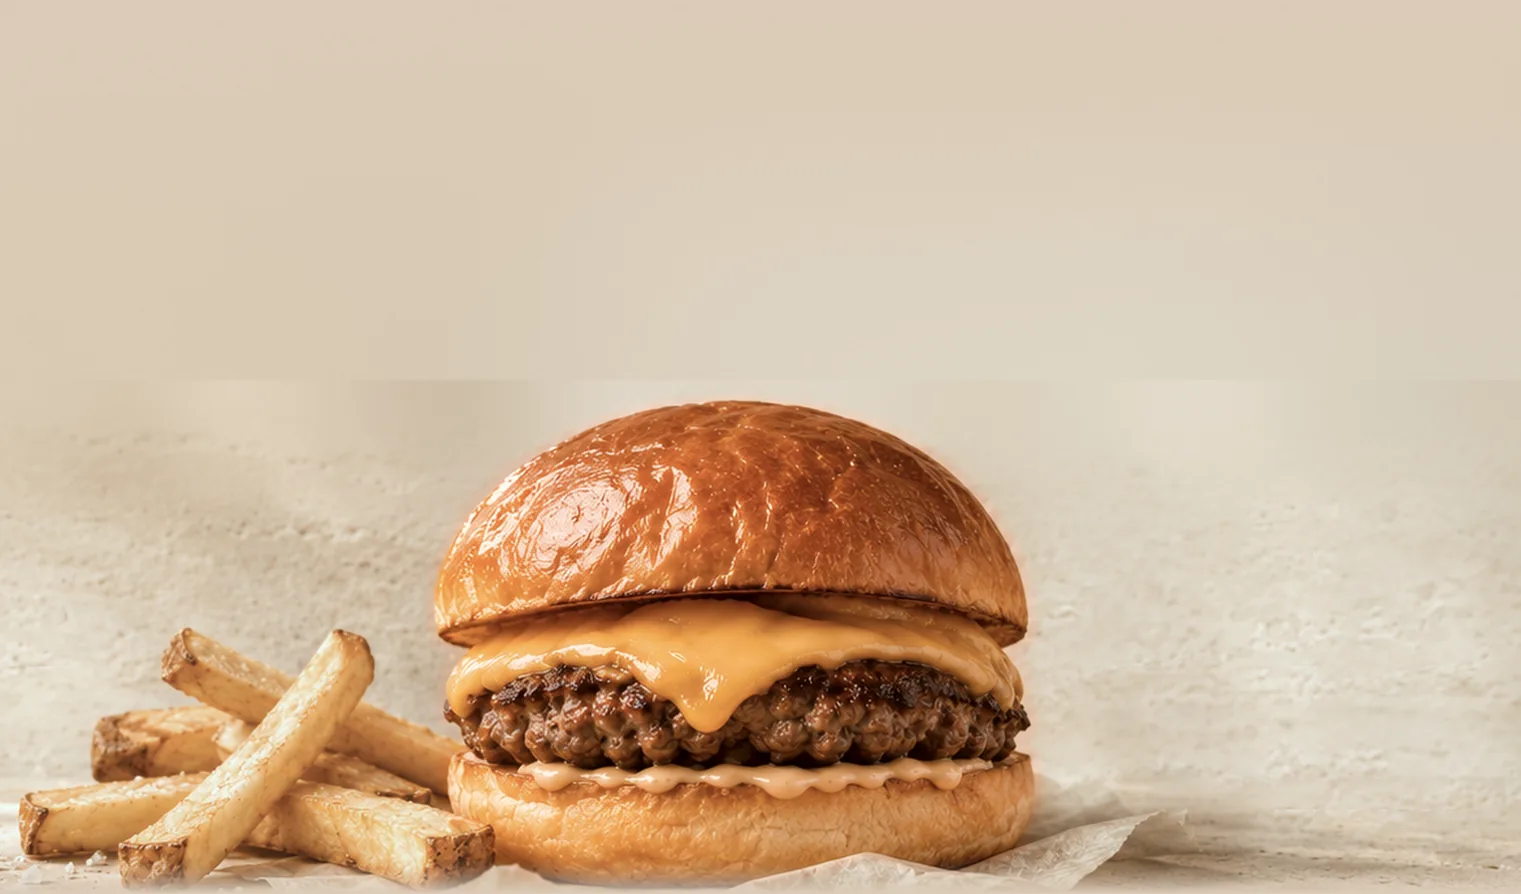
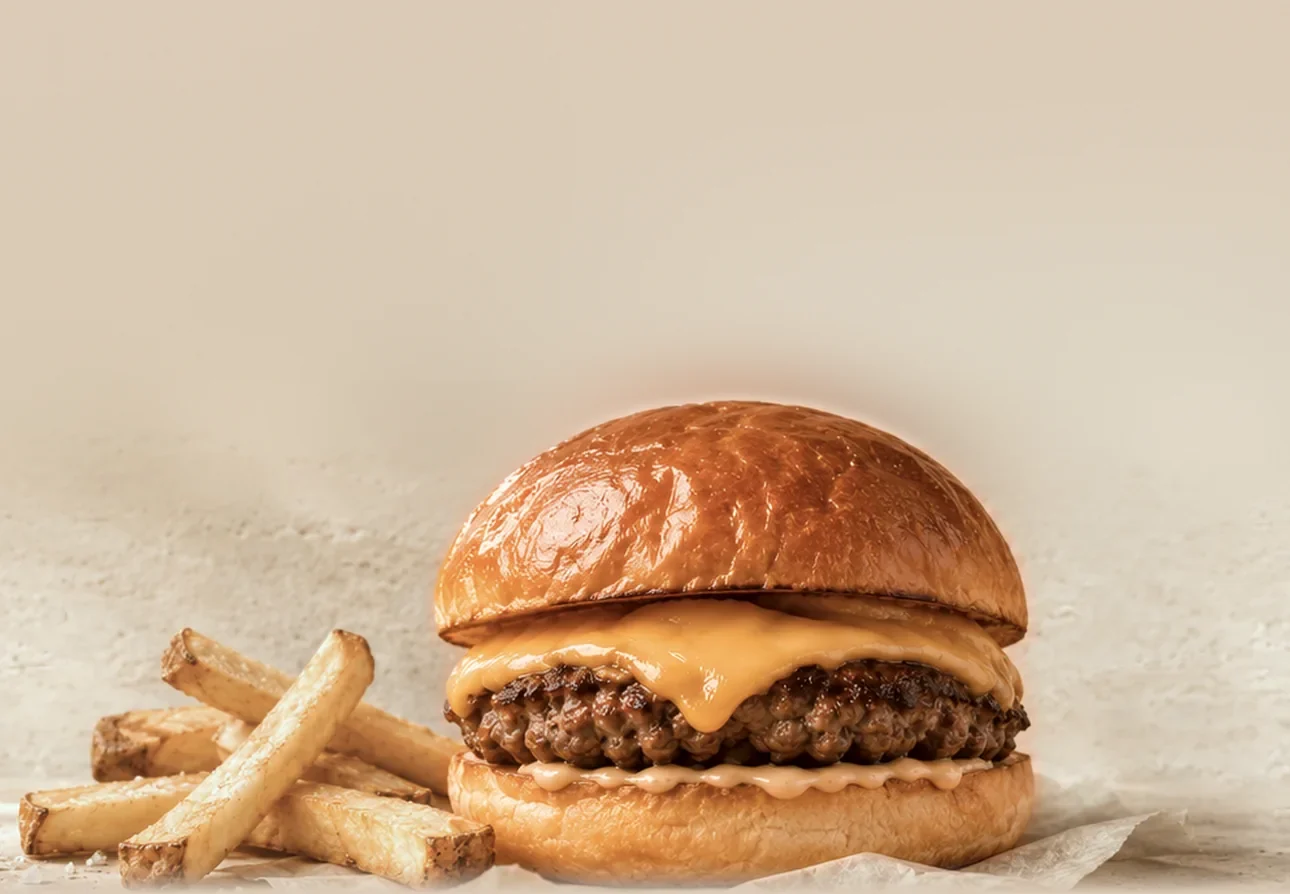
Mission text above photo on mobile, no fades; bigger mobile slider, divider positions

diff --git a/src/components/MissionSection.tsx b/src/components/MissionSection.tsx
@@ -35,7 +35,7 @@ export default function MissionSection() {
       <div className="mx-auto w-full max-w-[1560px] px-[var(--gutter)] lg:pr-[max(var(--gutter),5vw)]">
         <div className="relative flex flex-col gap-8 lg:min-h-[clamp(500px,40vw,700px)] lg:justify-center lg:py-6">
           <div
-            className="relative mx-auto -mt-4 w-[200%] max-w-none -translate-x-[8%] lg:absolute lg:left-1/2 lg:top-1/2 lg:mx-0 lg:w-[min(1600px,115vw)] lg:-translate-x-[90%] lg:-translate-y-1/2"
+            className="relative order-2 mx-auto -mt-[26vw] -mb-[6vw] w-[200%] lg:order-none lg:mb-0 lg:mt-0 max-w-none -translate-x-[8%] lg:absolute lg:left-1/2 lg:top-1/2 lg:mx-0 lg:w-[min(1600px,115vw)] lg:-translate-x-[90%] lg:-translate-y-1/2"
           >
             <span className="pointer-events-none absolute bottom-[4%] left-[18%] h-[16%] w-[70%] rounded-[50%] bg-[radial-gradient(closest-side,rgba(90,64,42,0.22),transparent)] blur-md" aria-hidden="true" />
             <Image
@@ -47,11 +47,11 @@ export default function MissionSection() {
               className="relative h-auto w-full opacity-[0.93] [filter:saturate(0.85)_brightness(1.04)] [mask-image:radial-gradient(75%_80%_at_58%_46%,#000_62%,transparent_100%)]"
             />
           </div>
-          <div className="relative z-10 -mt-14 lg:ml-auto lg:mt-0 lg:w-[min(46%,640px)] lg:text-right">
-            <p className="eyebrow mb-3 text-rust" data-reveal>
+          <div className="relative z-10 order-1 pt-8 lg:order-none lg:ml-auto lg:mt-0 lg:pt-0 lg:w-[min(46%,640px)] lg:text-right">
+            <p className="eyebrow mb-3 text-rust max-lg:!translate-y-0 max-lg:![transform:none] max-lg:!opacity-100" data-reveal>
               {mission.eyebrow}
             </p>
-            <h2 id="mission-title" className="display text-[clamp(2.3rem,3.3vw,3.5rem)] leading-[1.04] text-ink" data-reveal style={{ "--d": "90ms" } as React.CSSProperties}>
+            <h2 id="mission-title" className="display text-[clamp(2.3rem,3.3vw,3.5rem)] leading-[1.04] text-ink max-lg:!translate-y-0 max-lg:![transform:none] max-lg:!opacity-100" data-reveal style={{ "--d": "90ms" } as React.CSSProperties}>
               {mission.headline}
             </h2>
             <div className="mt-[clamp(1.25rem,2.4vw,1.75rem)]" />
@@ -93,7 +93,7 @@ export default function MissionSection() {
               })}
             </ul>
             <div
-              className="mt-[clamp(1rem,2.2vw,1.75rem)] border-t border-rust/40 pt-[clamp(0.75rem,1.5vw,1.25rem)]"
+              className="mt-[clamp(1rem,2.2vw,1.75rem)] border-t border-rust/40 pt-[clamp(0.75rem,1.5vw,1.25rem)] max-lg:!translate-y-0 max-lg:![transform:none] max-lg:!opacity-100"
               style={{
                 opacity: on ? 1 : 0,
                 transform: on ? "none" : "translateY(16px)",

diff --git a/src/components/SignatureBurger.tsx b/src/components/SignatureBurger.tsx
@@ -36,8 +36,8 @@ export default function SignatureBurger() {
         <ComparisonSlider
           className="[mask-image:linear-gradient(to_bottom,transparent,#000_2%,#000_97%,transparent)]"
           sizes="90vw"
-          inset={0.15}
-          rest={61}
+          inset={0.1}
+          rest={57}
           photo={{ src: "/images/slider-photo.webp", alt: signature.photoAlt, width: 1708, height: 713 }}
           sketch={{ src: "/images/slider-sketch.webp", alt: signature.sketchAlt, width: 1708, height: 713 }}
           notes={burgerNotes}
@@ -51,14 +51,14 @@ export default function SignatureBurger() {
       <div className="bg-[#dbcbb8] md:hidden">
         <div className="relative z-10 px-[var(--gutter)] pt-10">{intro}</div>
         <ComparisonSlider
-          className="mt-[calc(-1rem-9vw)]"
+          className="mt-[calc(-1rem-14vw)]"
           sizes="(min-width: 768px) 1px, 100vw"
-          photo={{ src: "/images/slider-photo-mobile.webp", alt: signature.photoAlt, width: 1521, height: 894 }}
-          sketch={{ src: "/images/slider-sketch-mobile.webp", alt: signature.sketchAlt, width: 1521, height: 894 }}
+          photo={{ src: "/images/slider-photo-mobile.webp", alt: signature.photoAlt, width: 1290, height: 894 }}
+          sketch={{ src: "/images/slider-sketch-mobile.webp", alt: signature.sketchAlt, width: 1290, height: 894 }}
           notes={burgerNotesMobile}
-          noteSize={52}
+          noteSize={48}
           textZone={380 / 894}
-          rest={48}
+          rest={60}
           labels={["", ""]}
         />
       </div>

diff --git a/src/content/site.ts b/src/content/site.ts
@@ -67,13 +67,13 @@ export const burgerNotes = [
   { text: ["Crispy hand-cut", "fries in tallow"], at: [370, 190], from: [510, 240], to: [540, 430], bend: -18 },
 ];
 
-/** Mobile callouts, in the 1521 x 894 space of /images/slider-*-mobile.webp (copy sits in the top 380). */
+/** Mobile callouts, in the 1290 x 894 space of /images/slider-*-mobile.webp (copy sits in the top 380). */
 export const burgerNotesMobile = [
-  { text: ["Toasted bun"], at: [1090, 340], from: [1080, 330], to: [965, 420], bend: -28 },
-  { text: ["Grass-finished", "beef"], at: [1110, 470], from: [1100, 510], to: [1020, 640], bend: -20 },
-  { text: ["Seared in", "beef tallow"], at: [1110, 630], from: [1100, 655], to: [1036, 712], bend: -10 },
-  { text: ["Simple, real", "ingredients"], at: [1110, 780], from: [1100, 790], to: [1040, 790], bend: 6 },
-  { text: ["Crispy hand-cut", "fries in tallow"], at: [40, 440], from: [190, 525], to: [235, 625], bend: 20 },
+  { text: ["Toasted bun"], at: [1020, 330], from: [1010, 322], to: [960, 420], bend: -28 },
+  { text: ["Grass-finished", "beef"], at: [1035, 480], from: [1025, 515], to: [1015, 640], bend: -16 },
+  { text: ["Seared in", "beef tallow"], at: [1050, 640], from: [1042, 660], to: [1036, 712], bend: -8 },
+  { text: ["Simple, real", "ingredients"], at: [1050, 790], from: [1042, 800], to: [1040, 800], bend: 4 },
+  { text: ["Crispy hand-cut", "fries in tallow"], at: [30, 420], from: [170, 500], to: [225, 615], bend: 20 },
 ];
 
 export const signature = {
